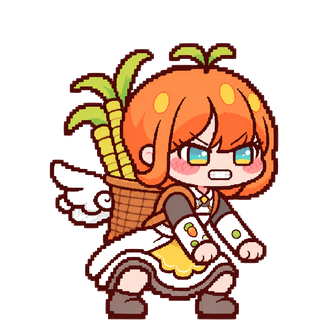
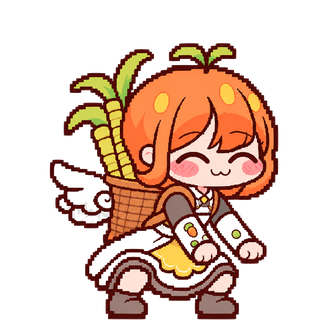
수레 들기 표정을 화난 얼굴에서 '으쌰' 얼굴로, 웹 깔깔 검토 모션 제거

Changed region(s): [[0.5183, 0.375, 0.8232, 0.5938], [0.7317, 0.8125, 0.7927, 0.8438], [0.7927, 0.7812, 0.8232, 0.8125]]

diff --git a/tools/build_web.py b/tools/build_web.py
@@ -56,9 +56,6 @@ MOTIONS = [
     ("clap", "박수 (산책 중 무작위)", CLAP),
     ("water", "물주기 (산책 중 무작위)", WATER),
     ("tickle", "문지르기 → 간지럼(꾹 참고 움찔)", C("master", 300) + C("tk_squirm_a", 150, "tk_squirm_b", 150) * 6 + C("tk_squirm_a", 160, "k01_blink", 140, "master", 400)),
-    ("tickle_laugh", "[검토용·앱 미적용] 간지럼 깔깔 버전", C("master", 300) + C("tk_squirm_a", 150, "tk_squirm_b", 150) * 4 +
-     C("tk_laugh_a", 130, "tk_laugh_m", 100, "tk_laugh_c", 150, "tk_laugh_m", 100, "tk_laugh_b", 130, "tk_laugh_d", 150) * 3 +
-     C("tk_laugh_c", 150, "tk_laugh_m", 130, "tk_laugh_d", 170, "tk_laugh_m", 160, "tk_calm", 1100, "k01_blink", 120, "master", 400)),
     ("invite", "텃밭 열기 → 정원 초대", INVITE),
     ("pull", "꾹 눌러 끌기 → 볼 당김", PULL),
     ("delete_fall", "앱 하나 삭제 → 잡초 뽑고 엉덩방아", DELETE),
